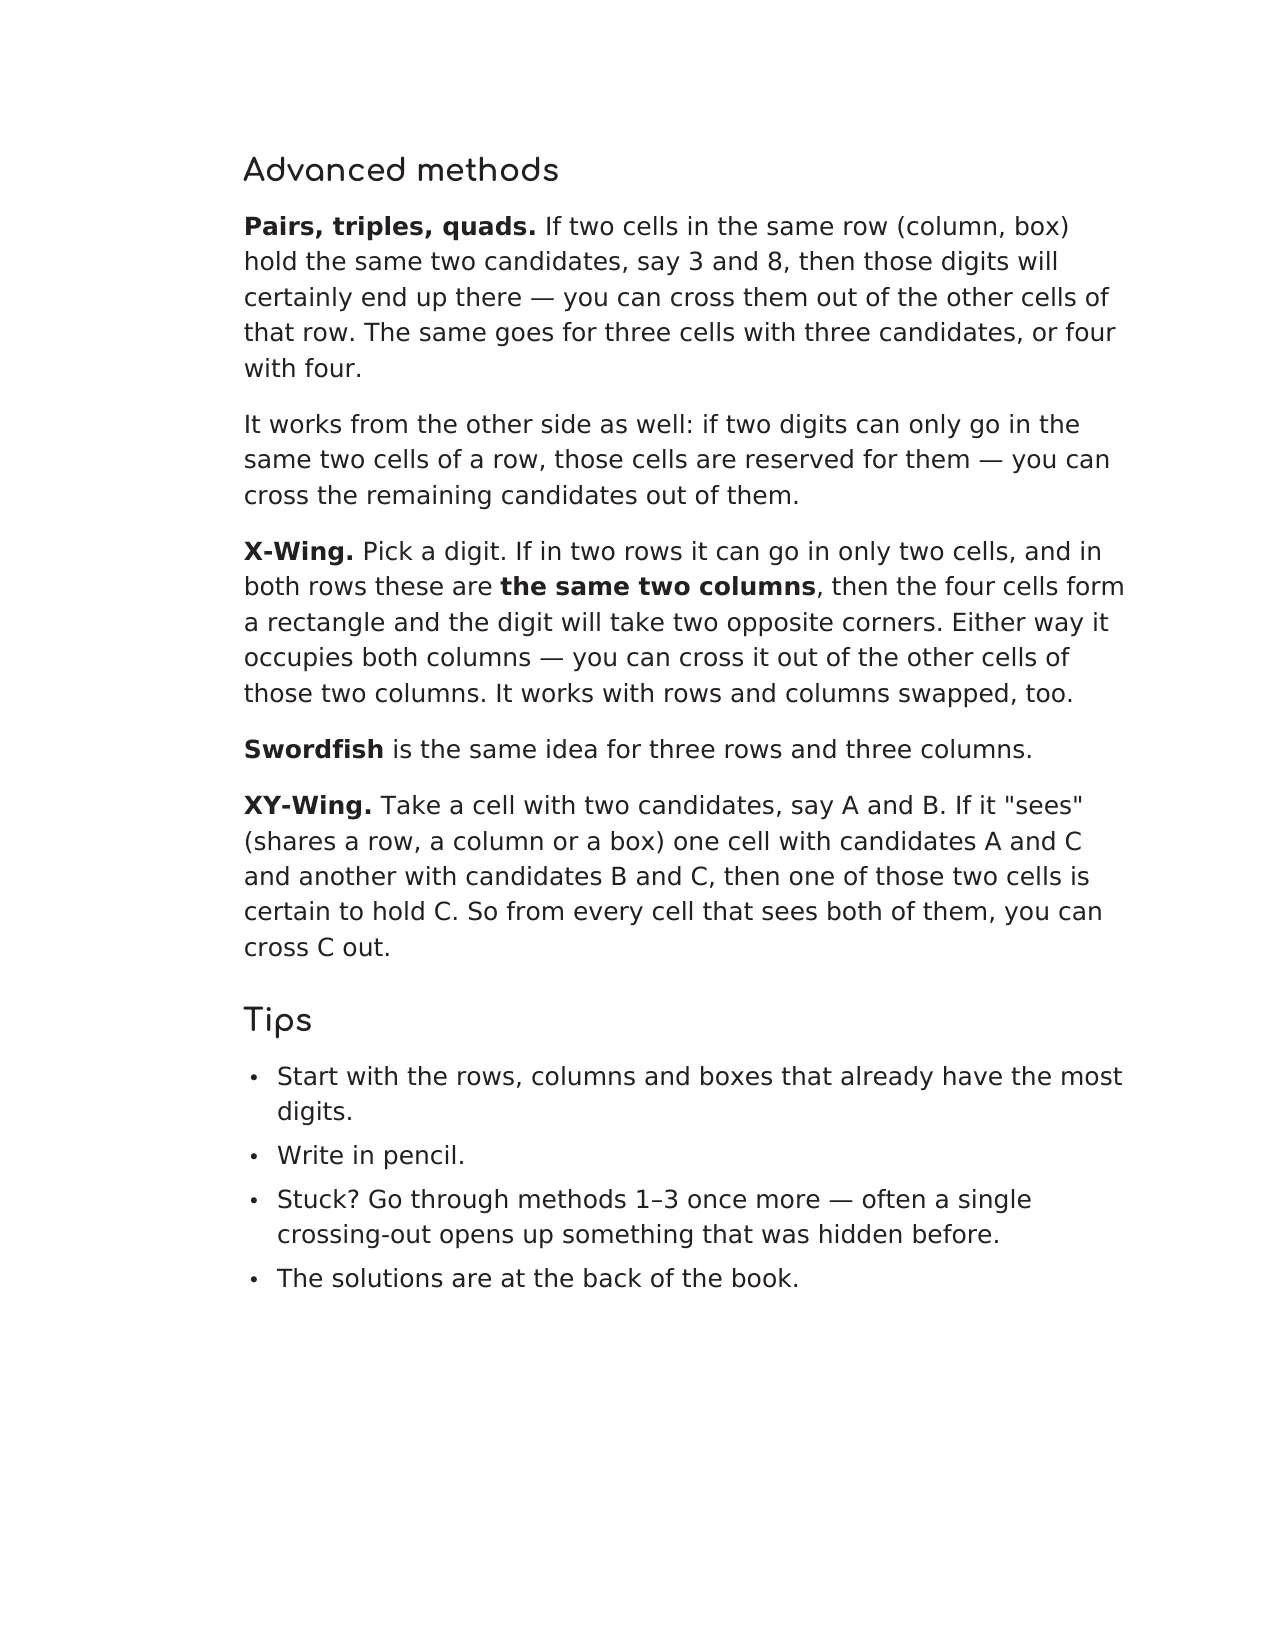
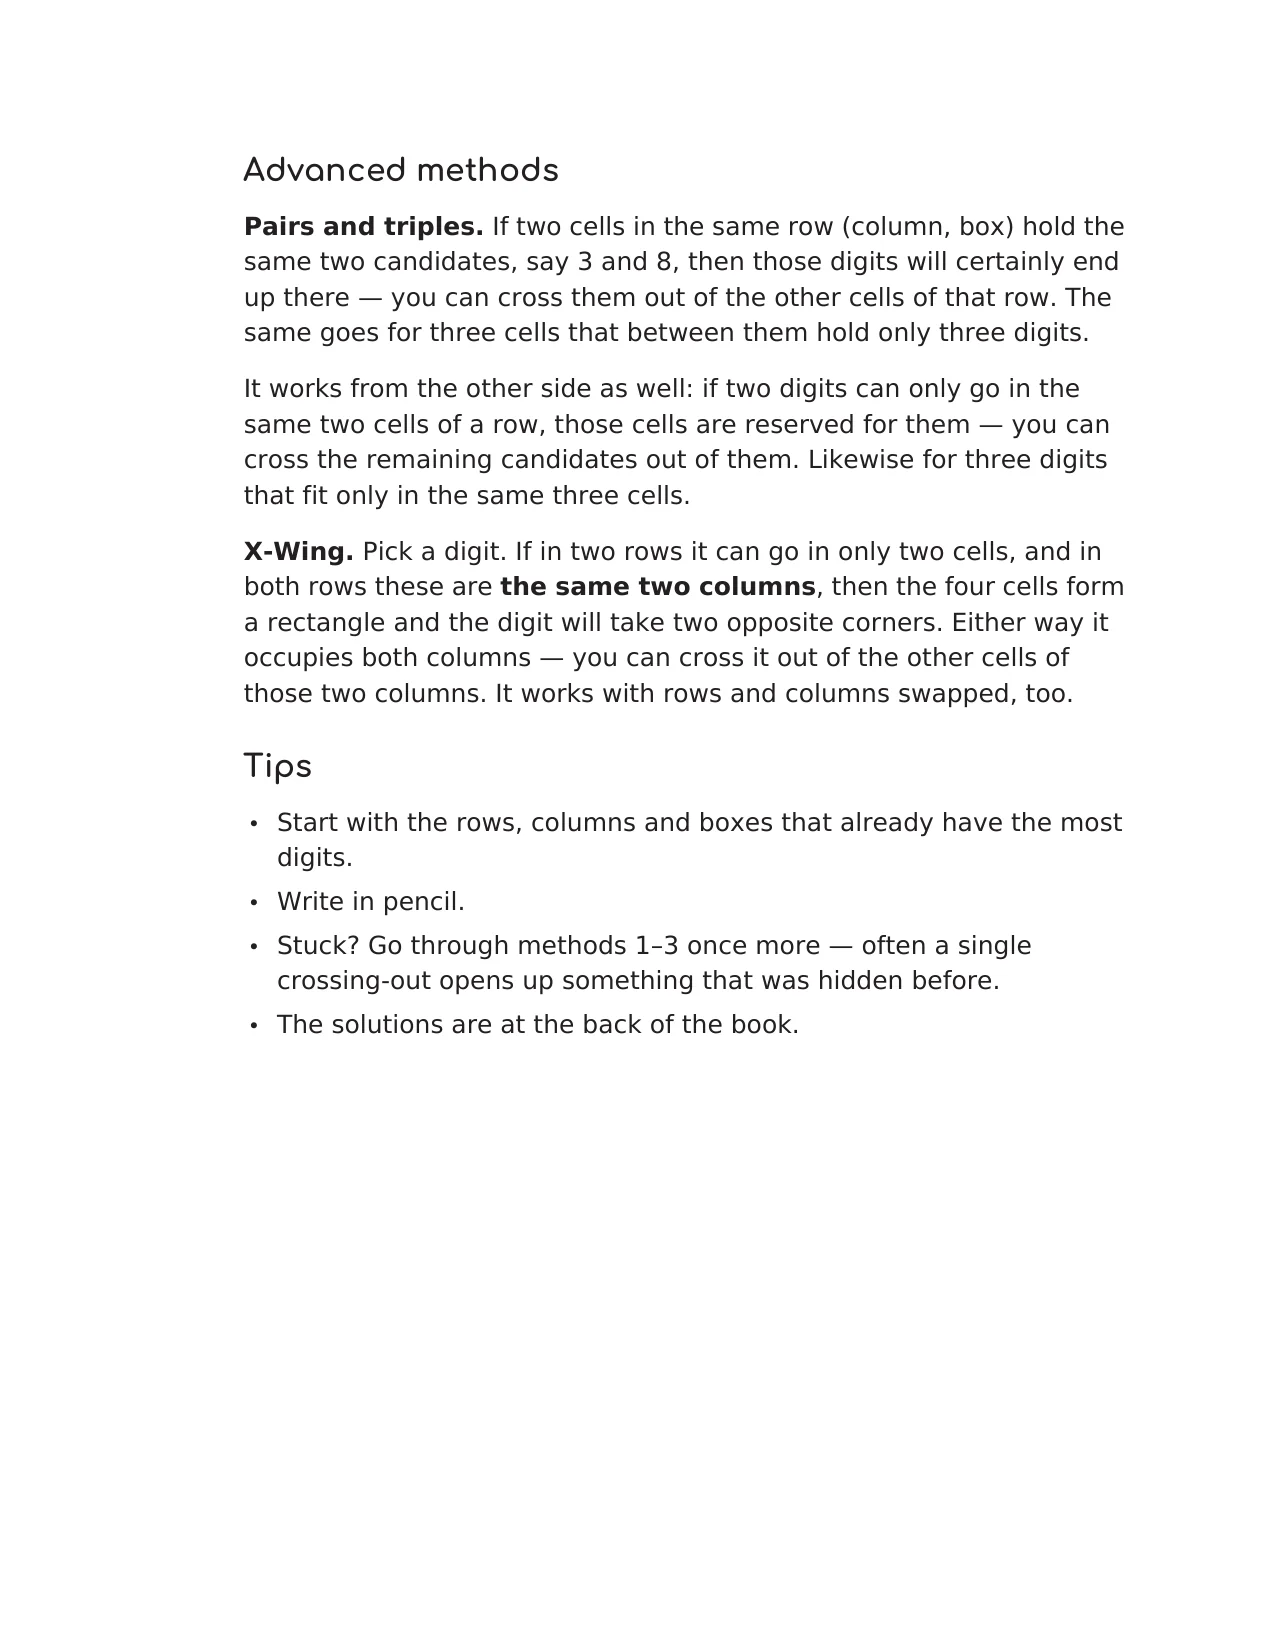
Sudoku 300 (tom 200) PL i EN: opis, punkty i SEO po przesunięciu poziomów (pary, trójki i X-Wing zamiast Swordfish i XY-Wing), nowe okładki, miniatury, OG i podgląd stron z aktualnych PDF-ów; tom 200 w okladki-z-pdf.py

diff --git a/data/books.ts b/data/books.ts
@@ -457,7 +457,7 @@ export const books: Book[] = [
   {
     slug: 'sudoku-300-zagadek-200',
     title: 'Sudoku',
-    subtitle: '300 zagadek od łatwych do bardzo trudnych',
+    subtitle: '300 łamigłówek od łatwych do bardzo trudnych',
     ageRange: 'Dorośli',
     category: 'sudoku',
     series: 'lamiglowki-logiczne',
@@ -465,12 +465,12 @@ export const books: Book[] = [
     lang: 'pl',
     edition: 'sudoku-200',
     description:
-      'Jedna plansza, dziewięć cyfr i chwila tylko dla siebie. Ten tom zawiera 300 zagadek sudoku ułożonych od najłatwiejszych do najtrudniejszych — zaczniesz od prostych, a skończysz na takich, przy których posiedzisz znacznie dłużej. Każda zagadka ma dokładnie jedno rozwiązanie i da się ją rozwiązać samą logiką, bez zgadywania. Świetnie sprawdza się w podróży, przy porannej kawie, w poczekalni albo wieczorem zamiast ekranu. Dobry pomysł na prezent dla kogoś, kto lubi łamigłówki — i dla siebie.',
+      'Jedna plansza, dziewięć cyfr i chwila tylko dla siebie. W tym tomie jest 300 klasycznych sudoku ułożonych od najłatwiejszego do najtrudniejszego: 60 łatwych, 90 średnich, 90 trudnych i 60 bardzo trudnych. Poziomy odpowiadają tym z popularnych serwisów z sudoku, więc łatwe są naprawdę łatwe, a bardzo trudne dają wprawnym graczom prawdziwe wyzwanie. Wstęp pokazuje metody w tej kolejności, w jakiej zaczynają być potrzebne: najpierw dwie podstawowe, potem wykluczenia i kandydaci, na końcu pary, trójki i X-Wing. Świetnie sprawdza się w podróży, przy porannej kawie albo wieczorem zamiast ekranu. Dobry pomysł na prezent dla kogoś, kto lubi łamigłówki, i dla siebie.',
     features: [
-      '300 sudoku w czterech poziomach: łatwy, średni, trudny i bardzo trudny',
-      'Wstęp z metodami rozwiązywania — od podstaw po X-Wing, Swordfish i XY-Wing',
-      'Wszystkie rozwiązania na końcu książki',
-      'Czytelne plansze z pogrubionymi liniami bloków 3×3',
+      '300 sudoku w czterech poziomach: 60 łatwych, 90 średnich, 90 trudnych i 60 bardzo trudnych',
+      'Wstęp z metodami od podstaw po pary, trójki i X-Wing',
+      'Cztery plansze na stronę, poziom podany nad każdą',
+      'Komplet rozwiązań na końcu książki',
     ],
     coverImage: '/covers/sudoku-300-zagadek-200.webp',
     amazonUrl: 'https://amzn.eu/d/08vEb3Mk',
@@ -480,9 +480,9 @@ export const books: Book[] = [
     pageCount: 132,
     samplePages: [1, 2, 3, 4, 5, 6, 7, 8].map((n) => `/samples/sudoku-300-zagadek-200/${n}.webp`),
     seo: {
-      title: 'Sudoku – 300 zagadek od łatwych do bardzo trudnych',
+      title: 'Sudoku – 300 łamigłówek od łatwych do bardzo trudnych',
       description:
-        '300 sudoku w czterech poziomach trudności, każde z jednym rozwiązaniem. Wstęp z technikami od podstaw po X-Wing i Swordfish. Rozwiązania w środku.',
+        '300 klasycznych sudoku w czterech poziomach, od łatwego po bardzo trudny. Wstęp z metodami od podstaw po pary, trójki i X-Wing. Komplet rozwiązań na końcu.',
     },
   },
   {
@@ -914,12 +914,12 @@ export const books: Book[] = [
     lang: 'en',
     edition: 'sudoku-200',
     description:
-      'One grid, nine digits and a moment just for you. This book contains 300 Sudoku puzzles arranged from the easiest to the hardest — you’ll start with simple ones and finish with grids that will keep you busy much longer. Every puzzle has exactly one solution and can be solved by logic alone, with no guessing. Perfect for travel, a morning coffee, a waiting room or an evening away from screens. A great gift for anyone who loves puzzles — and for yourself.',
+      'One grid, nine digits and a moment just for you. This book holds 300 classic Sudoku puzzles arranged from the easiest to the hardest: 60 easy, 90 medium, 90 hard and 60 very hard. The levels match those of popular Sudoku websites, so the easy ones really are easy and the very hard ones give experienced solvers a real challenge. The introduction teaches the methods in the order you will need them: two basic ones first, then eliminations and candidates, and finally pairs, triples and the X-Wing. Perfect for travel, a morning coffee or an evening away from screens. A great gift for anyone who loves puzzles, and for yourself.',
     features: [
-      '300 Sudoku puzzles in four levels: easy, medium, hard and very hard',
-      'An introduction to solving methods — from the basics to X-Wing, Swordfish and XY-Wing',
+      '300 Sudoku puzzles in four levels: 60 easy, 90 medium, 90 hard and 60 very hard',
+      'An introduction to solving methods, from the basics to pairs, triples and the X-Wing',
+      'Four puzzles per page, each labelled with its level',
       'Full solutions at the back of the book',
-      'Clear grids with bold 3×3 box lines',
     ],
     coverImage: '/covers/sudoku-300-puzzles-200.webp',
     amazonUrl: 'https://a.co/d/0icV7JLn',
@@ -931,7 +931,7 @@ export const books: Book[] = [
     seo: {
       title: '300 Sudoku Puzzles – From Easy to Very Hard',
       description:
-        '300 Sudoku puzzles in four difficulty levels, each with exactly one solution. An introduction to techniques from the basics to X-Wing and Swordfish. Solutions included.',
+        '300 classic Sudoku puzzles in four levels, from easy to very hard. An introduction to methods from the basics to pairs, triples and the X-Wing. Full solutions included.',
     },
   },
   {

diff --git a/data/landings.ts b/data/landings.ts
@@ -402,7 +402,7 @@ export const landings: Landing[] = [
       {
         heading: 'Od czego zacząć?',
         bullets: [
-          'Sudoku – 300 zagadek: jeśli chcesz klasyki na długo. Cztery poziomy, od łatwego po bardzo trudny, i wstęp z metodami od podstaw po X-Wing, Swordfish i XY-Wing.',
+          'Sudoku – 300 zagadek: jeśli chcesz klasyki na długo. Cztery poziomy, od łatwego po bardzo trudny, i wstęp z metodami od podstaw po pary, trójki i X-Wing.',
           'Sudoku mini – 120 łatwych zagadek: jeśli chcesz mieć sudoku zawsze przy sobie. Poręczny format 145 × 205 mm, jedna duża plansza na stronę i krótki wstęp z dwiema prostymi metodami.',
           'Killer Sudoku – 150 łatwych zagadek: jeśli znasz sudoku i chcesz spróbować czegoś nowego. Zagadki mają cyfry startowe, a poradnik na początku objaśnia zasady, trzy podstawowe techniki i regułę 45.',
         ],
@@ -556,7 +556,7 @@ export const landings: Landing[] = [
       {
         heading: 'Where should I start?',
         bullets: [
-          'Sudoku – 300 Puzzles: if you want classic sudoku for a long time. Four levels from easy to very hard and an introduction from the basics to X-Wing, Swordfish and XY-Wing.',
+          'Sudoku – 300 Puzzles: if you want classic sudoku for a long time. Four levels from easy to very hard and an introduction from the basics to pairs, triples and the X-Wing.',
           'Killer Sudoku – 150 Easy Puzzles: if you know sudoku and want something new. Starting digits to get you going and a starter guide with three basic techniques and the rule of 45.',
           'Kakuro for Beginners: if you have never solved one. A step-by-step tutorial solves a full example with you, then 192 puzzles grow from 4×4 to 6×6.',
         ],

diff --git a/scripts/okladki-z-pdf.py b/scripts/okladki-z-pdf.py
@@ -36,6 +36,8 @@ COVERS = {
     'znajdz-slowko-swieta': ('Wykreslanki_Tematyczne/Boze_Narodzenie', LETTER),
     'moje-pierwsze-sudoku': ('Klub_Madrych_Kapibar/PL/MojePierwszeSudoku/Poziom1/pl', MINI),
     'sudoku-mini-600': ('Sudoku/600-Mini-Latwy/pl', MINI),
+    'sudoku-300-zagadek-200': ('Sudoku/200-Klasyczny-LatwyTrudny/pl', LETTER),
+    'sudoku-300-puzzles-200': ('Sudoku/200-Klasyczny-LatwyTrudny/en', LETTER),
     'hiszpanski-w-wykreslankach-a1-a2': ('Nauka_Jezykow/Hiszpanski/Hiszpanski_Wykreslanki', MINI),
     'nonogramy-zakodowane-obrazki-1': ('Nonogramy/1-Latwe/pl', MINI),
     'wielki-polow': ('Wykreslanki_Tematyczne/Wedkarz', MINI),
